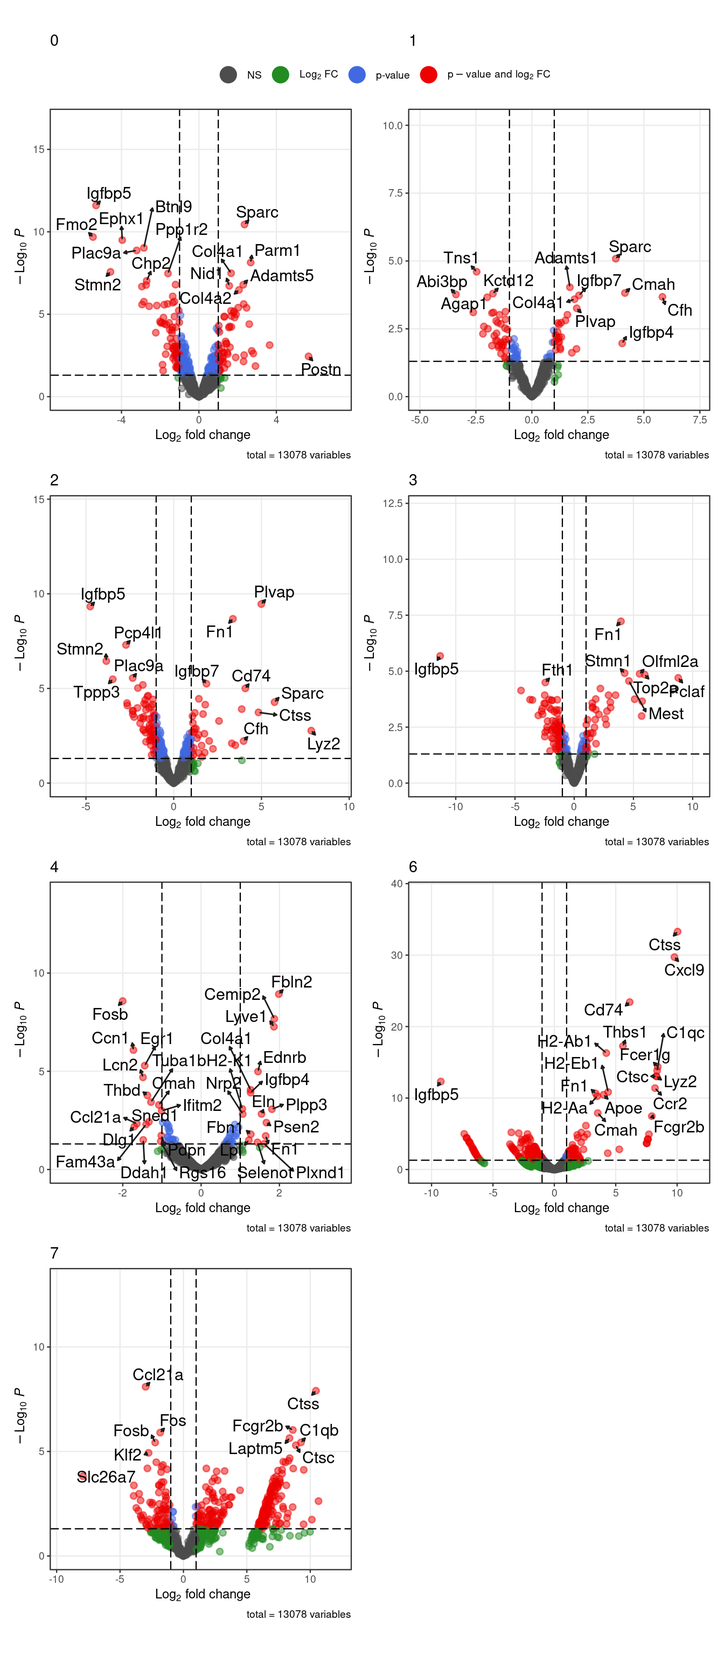
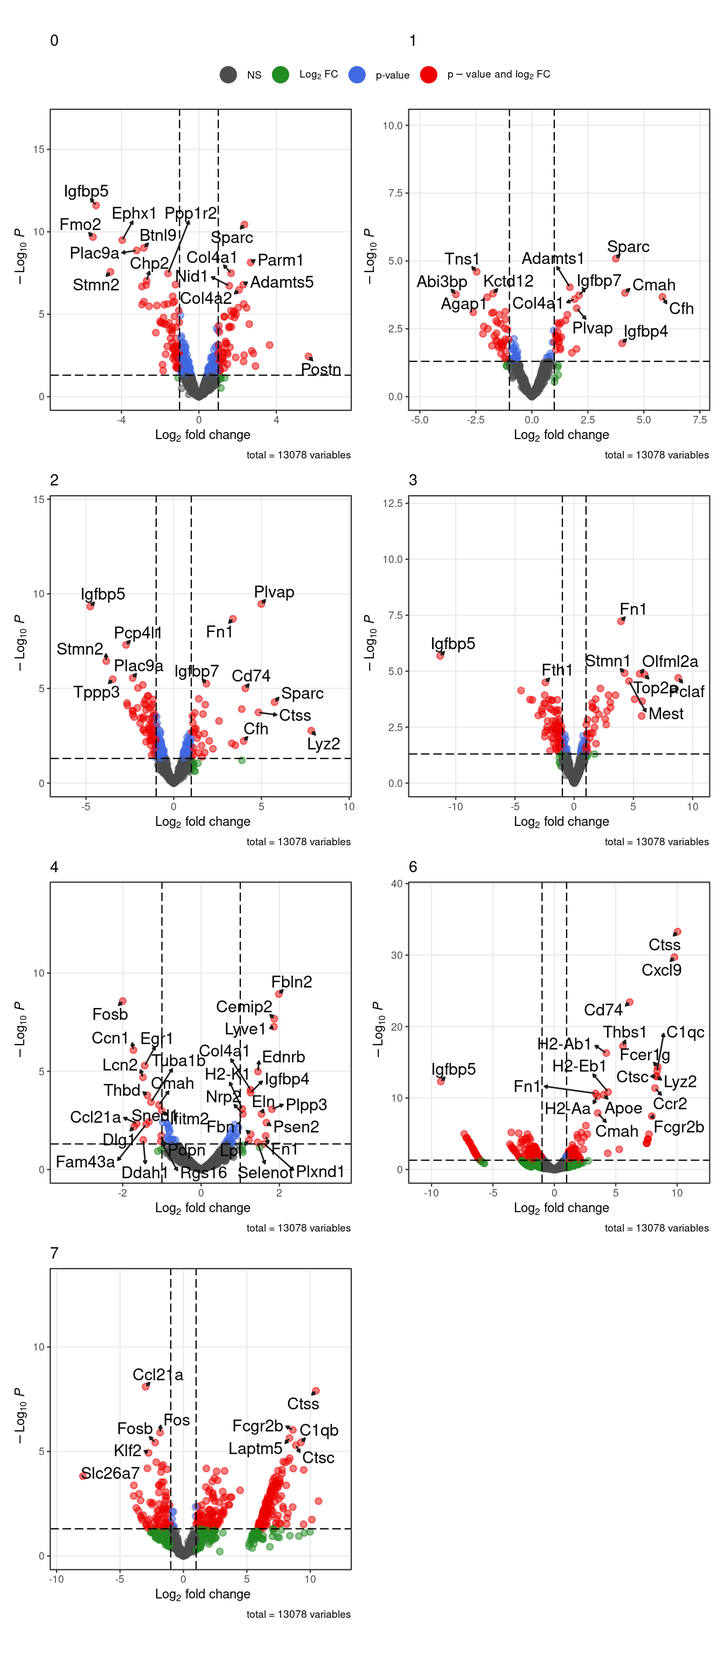
tumor specific yumm-yummer comparison

diff --git a/docs/code/SNF_draft/DE/de_tumor_vs_LN_CD45.html b/docs/code/SNF_draft/DE/de_tumor_vs_LN_CD45.html
@@ -138,7 +138,7 @@ pre > code.sourceCode > span > a:first-child::before { text-decoration: underlin
   </li>  
         <li>
     <a class="dropdown-item" href="../../../code/SNF_draft/DE/de_tumor_CD45.html" rel="" target="">
- <span class="dropdown-text">DE_LECs</span></a>
+ <span class="dropdown-text">DE tumor CD45</span></a>
   </li>  
         <li>
     <a class="dropdown-item" href="../../../code/SNF_draft/DE/de_LN_CD45_almut.html" rel="" target="">
@@ -319,114 +319,138 @@ pre > code.sourceCode > span > a:first-child::before { text-decoration: underlin
 <section id="pseudobulk-de-analysis" class="level3">
 <h3 class="anchored" data-anchor-id="pseudobulk-de-analysis">Pseudobulk De analysis</h3>
 <div class="cell">
-<div class="sourceCode cell-code" id="cb8"><pre class="sourceCode r code-with-copy"><code class="sourceCode r"><span id="cb8-1"><a href="#cb8-1" aria-hidden="true" tabindex="-1"></a><span class="co"># creating pseudobulks</span></span>
-<span id="cb8-2"><a href="#cb8-2" aria-hidden="true" tabindex="-1"></a>summed <span class="ot">&lt;-</span> <span class="fu">aggregateAcrossCells</span>(sce,</span>
-<span id="cb8-3"><a href="#cb8-3" aria-hidden="true" tabindex="-1"></a>                               <span class="at">id=</span><span class="fu">colData</span>(sce)[,<span class="fu">c</span>(<span class="st">"com_celltypes"</span>, <span class="st">"sample_pooled"</span>)])</span>
-<span id="cb8-4"><a href="#cb8-4" aria-hidden="true" tabindex="-1"></a><span class="co"># filter min cells</span></span>
-<span id="cb8-5"><a href="#cb8-5" aria-hidden="true" tabindex="-1"></a>summed.filt <span class="ot">&lt;-</span> summed[,summed<span class="sc">$</span>ncells <span class="sc">&gt;=</span> <span class="dv">10</span>]</span>
-<span id="cb8-6"><a href="#cb8-6" aria-hidden="true" tabindex="-1"></a><span class="fu">print</span>(<span class="fu">table</span>(summed.filt<span class="sc">$</span>tissue, summed.filt<span class="sc">$</span>com_celltypes))</span></code><button title="Copy to Clipboard" class="code-copy-button"><i class="bi"></i></button></pre></div>
+<div class="sourceCode cell-code" id="cb8"><pre class="sourceCode r code-with-copy"><code class="sourceCode r"><span id="cb8-1"><a href="#cb8-1" aria-hidden="true" tabindex="-1"></a>pb_de <span class="ot">&lt;-</span> <span class="cf">function</span>(cond){</span>
+<span id="cb8-2"><a href="#cb8-2" aria-hidden="true" tabindex="-1"></a>  sub <span class="ot">&lt;-</span> sce[,sce<span class="sc">$</span>cond <span class="sc">%in%</span> cond]</span>
+<span id="cb8-3"><a href="#cb8-3" aria-hidden="true" tabindex="-1"></a>  <span class="co"># creating pseudobulks</span></span>
+<span id="cb8-4"><a href="#cb8-4" aria-hidden="true" tabindex="-1"></a>  summed <span class="ot">&lt;-</span> <span class="fu">aggregateAcrossCells</span>(sub,</span>
+<span id="cb8-5"><a href="#cb8-5" aria-hidden="true" tabindex="-1"></a>                               <span class="at">id=</span><span class="fu">colData</span>(sub)[,<span class="fu">c</span>(<span class="st">"com_celltypes"</span>, </span>
+<span id="cb8-6"><a href="#cb8-6" aria-hidden="true" tabindex="-1"></a>                                                  <span class="st">"sample_pooled"</span>)])</span>
+<span id="cb8-7"><a href="#cb8-7" aria-hidden="true" tabindex="-1"></a>  <span class="co"># filter min cells</span></span>
+<span id="cb8-8"><a href="#cb8-8" aria-hidden="true" tabindex="-1"></a>  summed.filt <span class="ot">&lt;-</span> summed[,summed<span class="sc">$</span>ncells <span class="sc">&gt;=</span> <span class="dv">10</span>]</span>
+<span id="cb8-9"><a href="#cb8-9" aria-hidden="true" tabindex="-1"></a>  <span class="fu">print</span>(<span class="fu">table</span>(summed.filt<span class="sc">$</span>tissue, summed.filt<span class="sc">$</span>com_celltypes))</span>
+<span id="cb8-10"><a href="#cb8-10" aria-hidden="true" tabindex="-1"></a>  </span>
+<span id="cb8-11"><a href="#cb8-11" aria-hidden="true" tabindex="-1"></a>  <span class="co"># Model design</span></span>
+<span id="cb8-12"><a href="#cb8-12" aria-hidden="true" tabindex="-1"></a>  <span class="do">## Do the LN and tumor sample correspond to the same mouse?</span></span>
+<span id="cb8-13"><a href="#cb8-13" aria-hidden="true" tabindex="-1"></a>  design <span class="ot">&lt;-</span> <span class="fu">model.matrix</span>(<span class="sc">~</span> tissue, <span class="fu">as.data.frame</span>(<span class="fu">colData</span>(summed.filt)))</span>
+<span id="cb8-14"><a href="#cb8-14" aria-hidden="true" tabindex="-1"></a>  </span>
+<span id="cb8-15"><a href="#cb8-15" aria-hidden="true" tabindex="-1"></a>  <span class="co"># To specify the contrast/coef. </span></span>
+<span id="cb8-16"><a href="#cb8-16" aria-hidden="true" tabindex="-1"></a>  <span class="fu">colnames</span>(design)</span>
+<span id="cb8-17"><a href="#cb8-17" aria-hidden="true" tabindex="-1"></a>  </span>
+<span id="cb8-18"><a href="#cb8-18" aria-hidden="true" tabindex="-1"></a>  <span class="co"># Differential expression</span></span>
+<span id="cb8-19"><a href="#cb8-19" aria-hidden="true" tabindex="-1"></a>  tum_LN <span class="ot">&lt;-</span> <span class="fu">pseudoBulkDGE</span>(summed.filt, </span>
+<span id="cb8-20"><a href="#cb8-20" aria-hidden="true" tabindex="-1"></a>      <span class="at">label=</span>summed.filt<span class="sc">$</span>com_celltypes,</span>
+<span id="cb8-21"><a href="#cb8-21" aria-hidden="true" tabindex="-1"></a>      <span class="at">design=</span><span class="sc">~</span>tissue,</span>
+<span id="cb8-22"><a href="#cb8-22" aria-hidden="true" tabindex="-1"></a>      <span class="at">coef=</span><span class="st">"tissuetumor_CD45"</span>,</span>
+<span id="cb8-23"><a href="#cb8-23" aria-hidden="true" tabindex="-1"></a>      <span class="at">condition=</span>summed.filt<span class="sc">$</span>tissue)</span>
+<span id="cb8-24"><a href="#cb8-24" aria-hidden="true" tabindex="-1"></a>}</span>
+<span id="cb8-25"><a href="#cb8-25" aria-hidden="true" tabindex="-1"></a></span>
+<span id="cb8-26"><a href="#cb8-26" aria-hidden="true" tabindex="-1"></a>yumm <span class="ot">&lt;-</span> <span class="fu">pb_de</span>(<span class="st">"YUMM"</span>)</span></code><button title="Copy to Clipboard" class="code-copy-button"><i class="bi"></i></button></pre></div>
 <div class="cell-output cell-output-stdout">
 <pre><code>            
              monocytes/macrophages other T cells DCs CD8 T cells
-  LN_CD45                        0             7   7           7
-  tumor_CD45                     8             8   8           8
+  LN_CD45                        0             4   4           4
+  tumor_CD45                     4             4   4           4
             
              endothelial cells/fibroblasts CD4 T cells mast cells other B cells
-  LN_CD45                                0           7          0     4       7
-  tumor_CD45                             8           8          8     4       7
+  LN_CD45                                0           4          0     2       4
+  tumor_CD45                             4           4          4     4       3
             
              NK cells LECs
-  LN_CD45           7    7
+  LN_CD45           4    4
   tumor_CD45        0    0</code></pre>
 </div>
-<div class="sourceCode cell-code" id="cb10"><pre class="sourceCode r code-with-copy"><code class="sourceCode r"><span id="cb10-1"><a href="#cb10-1" aria-hidden="true" tabindex="-1"></a><span class="co"># Model design</span></span>
-<span id="cb10-2"><a href="#cb10-2" aria-hidden="true" tabindex="-1"></a><span class="do">## Do the LN and tumor sample correspond to the same mouse?</span></span>
-<span id="cb10-3"><a href="#cb10-3" aria-hidden="true" tabindex="-1"></a>design <span class="ot">&lt;-</span> <span class="fu">model.matrix</span>(<span class="sc">~</span> tissue, <span class="fu">as.data.frame</span>(<span class="fu">colData</span>(summed.filt)))</span>
-<span id="cb10-4"><a href="#cb10-4" aria-hidden="true" tabindex="-1"></a></span>
-<span id="cb10-5"><a href="#cb10-5" aria-hidden="true" tabindex="-1"></a><span class="co"># To specify the contrast/coef. </span></span>
-<span id="cb10-6"><a href="#cb10-6" aria-hidden="true" tabindex="-1"></a><span class="fu">colnames</span>(design)</span></code><button title="Copy to Clipboard" class="code-copy-button"><i class="bi"></i></button></pre></div>
+<div class="sourceCode cell-code" id="cb10"><pre class="sourceCode r code-with-copy"><code class="sourceCode r"><span id="cb10-1"><a href="#cb10-1" aria-hidden="true" tabindex="-1"></a>yummer <span class="ot">&lt;-</span> <span class="fu">pb_de</span>(<span class="st">"YUMMER"</span>)</span></code><button title="Copy to Clipboard" class="code-copy-button"><i class="bi"></i></button></pre></div>
 <div class="cell-output cell-output-stdout">
-<pre><code>[1] "(Intercept)"      "tissuetumor_CD45"</code></pre>
+<pre><code>            
+             monocytes/macrophages other T cells DCs CD8 T cells
+  LN_CD45                        0             3   3           3
+  tumor_CD45                     4             4   4           4
+            
+             endothelial cells/fibroblasts CD4 T cells mast cells other B cells
+  LN_CD45                                0           3          0     2       3
+  tumor_CD45                             4           4          4     0       4
+            
+             NK cells LECs
+  LN_CD45           3    3
+  tumor_CD45        0    0</code></pre>
 </div>
-<div class="sourceCode cell-code" id="cb12"><pre class="sourceCode r code-with-copy"><code class="sourceCode r"><span id="cb12-1"><a href="#cb12-1" aria-hidden="true" tabindex="-1"></a><span class="co"># Differential expression</span></span>
-<span id="cb12-2"><a href="#cb12-2" aria-hidden="true" tabindex="-1"></a>tum_LN <span class="ot">&lt;-</span> <span class="fu">pseudoBulkDGE</span>(summed.filt, </span>
-<span id="cb12-3"><a href="#cb12-3" aria-hidden="true" tabindex="-1"></a>    <span class="at">label=</span>summed.filt<span class="sc">$</span>com_celltypes,</span>
-<span id="cb12-4"><a href="#cb12-4" aria-hidden="true" tabindex="-1"></a>    <span class="at">design=</span><span class="sc">~</span>tissue,</span>
-<span id="cb12-5"><a href="#cb12-5" aria-hidden="true" tabindex="-1"></a>    <span class="at">coef=</span><span class="st">"tissuetumor_CD45"</span>,</span>
-<span id="cb12-6"><a href="#cb12-6" aria-hidden="true" tabindex="-1"></a>    <span class="at">condition=</span>summed.filt<span class="sc">$</span>tissue </span>
-<span id="cb12-7"><a href="#cb12-7" aria-hidden="true" tabindex="-1"></a>)</span>
-<span id="cb12-8"><a href="#cb12-8" aria-hidden="true" tabindex="-1"></a></span>
-<span id="cb12-9"><a href="#cb12-9" aria-hidden="true" tabindex="-1"></a></span>
-<span id="cb12-10"><a href="#cb12-10" aria-hidden="true" tabindex="-1"></a><span class="co"># Number of DE genes per cluster in yummer_yumm</span></span>
-<span id="cb12-11"><a href="#cb12-11" aria-hidden="true" tabindex="-1"></a>is.de <span class="ot">&lt;-</span> <span class="fu">decideTestsPerLabel</span>(tum_LN, <span class="at">threshold=</span><span class="fl">0.05</span>)</span>
-<span id="cb12-12"><a href="#cb12-12" aria-hidden="true" tabindex="-1"></a><span class="fu">summarizeTestsPerLabel</span>(is.de)</span></code><button title="Copy to Clipboard" class="code-copy-button"><i class="bi"></i></button></pre></div>
+<div class="sourceCode cell-code" id="cb12"><pre class="sourceCode r code-with-copy"><code class="sourceCode r"><span id="cb12-1"><a href="#cb12-1" aria-hidden="true" tabindex="-1"></a><span class="co"># Number of DE genes per cluster in yummer_yumm</span></span>
+<span id="cb12-2"><a href="#cb12-2" aria-hidden="true" tabindex="-1"></a>is.de <span class="ot">&lt;-</span> <span class="fu">decideTestsPerLabel</span>(yumm, <span class="at">threshold=</span><span class="fl">0.05</span>)</span>
+<span id="cb12-3"><a href="#cb12-3" aria-hidden="true" tabindex="-1"></a><span class="fu">summarizeTestsPerLabel</span>(is.de)</span></code><button title="Copy to Clipboard" class="code-copy-button"><i class="bi"></i></button></pre></div>
 <div class="cell-output cell-output-stdout">
 <pre><code>                -1    0    1    NA
-B cells        599 1203  583 11872
-CD4 T cells    949 2660  989  9659
-CD8 T cells   1175 3990 1240  7852
-DCs           2274 3414 2207  6362
-other          444  293  642 12878
-other T cells 1868 3324 1977  7088</code></pre>
+B cells        330 2157  516 11254
+CD4 T cells    499 2076  555 11127
+CD8 T cells    506 3703  589  9459
+DCs           1613 4074 1662  6908
+other          448 1484  816 11509
+other T cells  968 2137 1063 10089</code></pre>
 </div>
-<div class="sourceCode cell-code" id="cb14"><pre class="sourceCode r code-with-copy"><code class="sourceCode r"><span id="cb14-1"><a href="#cb14-1" aria-hidden="true" tabindex="-1"></a><span class="co">#write as output</span></span>
-<span id="cb14-2"><a href="#cb14-2" aria-hidden="true" tabindex="-1"></a>write_de_res <span class="ot">&lt;-</span> <span class="cf">function</span>(de_obj, res_nam){</span>
-<span id="cb14-3"><a href="#cb14-3" aria-hidden="true" tabindex="-1"></a>  res_list <span class="ot">&lt;-</span> <span class="fu">lapply</span>(<span class="fu">names</span>(de_obj), <span class="cf">function</span>(clust, <span class="at">nam =</span> res_nam){</span>
-<span id="cb14-4"><a href="#cb14-4" aria-hidden="true" tabindex="-1"></a>    cur.res <span class="ot">&lt;-</span> de_obj[[clust]]</span>
-<span id="cb14-5"><a href="#cb14-5" aria-hidden="true" tabindex="-1"></a>    res <span class="ot">&lt;-</span> cur.res[<span class="fu">order</span>(cur.res<span class="sc">$</span>PValue),] <span class="sc">|&gt;</span> </span>
-<span id="cb14-6"><a href="#cb14-6" aria-hidden="true" tabindex="-1"></a>      <span class="fu">as.data.frame</span>() <span class="sc">|&gt;</span> </span>
-<span id="cb14-7"><a href="#cb14-7" aria-hidden="true" tabindex="-1"></a>      <span class="fu">filter</span>(<span class="sc">!</span><span class="fu">is.na</span>(PValue))</span>
-<span id="cb14-8"><a href="#cb14-8" aria-hidden="true" tabindex="-1"></a>    <span class="do">## --- adapt path DE/ to local output path -----##</span></span>
-<span id="cb14-9"><a href="#cb14-9" aria-hidden="true" tabindex="-1"></a>    <span class="fu">write.csv</span>(res, <span class="fu">paste0</span>(<span class="st">"../../../out/DE/"</span>, nam, <span class="st">"_"</span>, clust, <span class="st">".csv"</span>))</span>
-<span id="cb14-10"><a href="#cb14-10" aria-hidden="true" tabindex="-1"></a>    res</span>
-<span id="cb14-11"><a href="#cb14-11" aria-hidden="true" tabindex="-1"></a>  })</span>
-<span id="cb14-12"><a href="#cb14-12" aria-hidden="true" tabindex="-1"></a>}</span>
-<span id="cb14-13"><a href="#cb14-13" aria-hidden="true" tabindex="-1"></a></span>
-<span id="cb14-14"><a href="#cb14-14" aria-hidden="true" tabindex="-1"></a>de_tum_LN <span class="ot">&lt;-</span> <span class="fu">write_de_res</span>(tum_LN, <span class="at">res_nam =</span> <span class="st">"tum_vs_LN"</span>)</span></code><button title="Copy to Clipboard" class="code-copy-button"><i class="bi"></i></button></pre></div>
+<div class="sourceCode cell-code" id="cb14"><pre class="sourceCode r code-with-copy"><code class="sourceCode r"><span id="cb14-1"><a href="#cb14-1" aria-hidden="true" tabindex="-1"></a>is.de <span class="ot">&lt;-</span> <span class="fu">decideTestsPerLabel</span>(yummer, <span class="at">threshold=</span><span class="fl">0.05</span>)</span>
+<span id="cb14-2"><a href="#cb14-2" aria-hidden="true" tabindex="-1"></a><span class="fu">summarizeTestsPerLabel</span>(is.de)</span></code><button title="Copy to Clipboard" class="code-copy-button"><i class="bi"></i></button></pre></div>
+<div class="cell-output cell-output-stdout">
+<pre><code>                -1    0    1    NA
+B cells        629 1309  622 11697
+CD4 T cells    764 3267  852  9374
+CD8 T cells   1072 5858 1220  6107
+DCs           2015 4869 2041  5332
+other T cells 1633 4290 1672  6662</code></pre>
+</div>
+<div class="sourceCode cell-code" id="cb16"><pre class="sourceCode r code-with-copy"><code class="sourceCode r"><span id="cb16-1"><a href="#cb16-1" aria-hidden="true" tabindex="-1"></a><span class="co">#write as output</span></span>
+<span id="cb16-2"><a href="#cb16-2" aria-hidden="true" tabindex="-1"></a>write_de_res <span class="ot">&lt;-</span> <span class="cf">function</span>(de_obj, res_nam){</span>
+<span id="cb16-3"><a href="#cb16-3" aria-hidden="true" tabindex="-1"></a>  res_list <span class="ot">&lt;-</span> <span class="fu">lapply</span>(<span class="fu">names</span>(de_obj), <span class="cf">function</span>(clust, <span class="at">nam =</span> res_nam){</span>
+<span id="cb16-4"><a href="#cb16-4" aria-hidden="true" tabindex="-1"></a>    cur.res <span class="ot">&lt;-</span> de_obj[[clust]]</span>
+<span id="cb16-5"><a href="#cb16-5" aria-hidden="true" tabindex="-1"></a>    res <span class="ot">&lt;-</span> cur.res[<span class="fu">order</span>(cur.res<span class="sc">$</span>PValue),] <span class="sc">|&gt;</span> </span>
+<span id="cb16-6"><a href="#cb16-6" aria-hidden="true" tabindex="-1"></a>      <span class="fu">as.data.frame</span>() <span class="sc">|&gt;</span> </span>
+<span id="cb16-7"><a href="#cb16-7" aria-hidden="true" tabindex="-1"></a>      <span class="fu">filter</span>(<span class="sc">!</span><span class="fu">is.na</span>(PValue))</span>
+<span id="cb16-8"><a href="#cb16-8" aria-hidden="true" tabindex="-1"></a>    <span class="do">## --- adapt path DE/ to local output path -----##</span></span>
+<span id="cb16-9"><a href="#cb16-9" aria-hidden="true" tabindex="-1"></a>    <span class="fu">write.csv</span>(res, <span class="fu">paste0</span>(<span class="st">"../../../out/DE/"</span>, nam, <span class="st">"_"</span>, clust, <span class="st">".csv"</span>))</span>
+<span id="cb16-10"><a href="#cb16-10" aria-hidden="true" tabindex="-1"></a>    res</span>
+<span id="cb16-11"><a href="#cb16-11" aria-hidden="true" tabindex="-1"></a>  })</span>
+<span id="cb16-12"><a href="#cb16-12" aria-hidden="true" tabindex="-1"></a>}</span>
+<span id="cb16-13"><a href="#cb16-13" aria-hidden="true" tabindex="-1"></a></span>
+<span id="cb16-14"><a href="#cb16-14" aria-hidden="true" tabindex="-1"></a>yumm_tum_LN <span class="ot">&lt;-</span> <span class="fu">write_de_res</span>(yumm, <span class="at">res_nam =</span> <span class="st">"yumm_tum_vs_LN"</span>)</span>
+<span id="cb16-15"><a href="#cb16-15" aria-hidden="true" tabindex="-1"></a>yummer_tum_LN <span class="ot">&lt;-</span> <span class="fu">write_de_res</span>(yummer, <span class="at">res_nam =</span> <span class="st">"yummer_tum_vs_LN"</span>)</span></code><button title="Copy to Clipboard" class="code-copy-button"><i class="bi"></i></button></pre></div>
 </div>
 </section>
 <section id="volcano-plots" class="level3">
 <h3 class="anchored" data-anchor-id="volcano-plots">Volcano plots</h3>
+<section id="yumm" class="level4">
+<h4 class="anchored" data-anchor-id="yumm">YUMM</h4>
 <div class="cell">
-<div class="sourceCode cell-code" id="cb15"><pre class="sourceCode r code-with-copy"><code class="sourceCode r"><span id="cb15-1"><a href="#cb15-1" aria-hidden="true" tabindex="-1"></a>plot_list <span class="ot">&lt;-</span> <span class="fu">lapply</span>(<span class="fu">names</span>(tum_LN), \(.) {</span>
-<span id="cb15-2"><a href="#cb15-2" aria-hidden="true" tabindex="-1"></a>  df <span class="ot">=</span> tum_LN[[.]]</span>
-<span id="cb15-3"><a href="#cb15-3" aria-hidden="true" tabindex="-1"></a>  <span class="fu">.volcano</span>(<span class="at">df =</span> df, <span class="at">title =</span> ., <span class="at">fdr =</span> <span class="fl">0.05</span>, <span class="at">lfc =</span> <span class="dv">1</span>, )</span>
-<span id="cb15-4"><a href="#cb15-4" aria-hidden="true" tabindex="-1"></a>  }</span>
-<span id="cb15-5"><a href="#cb15-5" aria-hidden="true" tabindex="-1"></a>)</span>
-<span id="cb15-6"><a href="#cb15-6" aria-hidden="true" tabindex="-1"></a></span>
-<span id="cb15-7"><a href="#cb15-7" aria-hidden="true" tabindex="-1"></a><span class="fu">wrap_plots</span>(plot_list, <span class="at">ncol =</span> <span class="dv">2</span>) <span class="sc">+</span> </span>
-<span id="cb15-8"><a href="#cb15-8" aria-hidden="true" tabindex="-1"></a>  <span class="fu">plot_layout</span>(<span class="at">guides =</span> <span class="st">"collect"</span>) <span class="sc">&amp;</span></span>
-<span id="cb15-9"><a href="#cb15-9" aria-hidden="true" tabindex="-1"></a>  <span class="fu">theme</span>(<span class="at">legend.position =</span> <span class="st">"top"</span>)</span></code><button title="Copy to Clipboard" class="code-copy-button"><i class="bi"></i></button></pre></div>
-<div class="cell-output cell-output-stderr">
-<pre><code>Warning: ggrepel: 605 unlabeled data points (too many overlaps). Consider
-increasing max.overlaps</code></pre>
-</div>
-<div class="cell-output cell-output-stderr">
-<pre><code>Warning: ggrepel: 650 unlabeled data points (too many overlaps). Consider
-increasing max.overlaps</code></pre>
-</div>
-<div class="cell-output cell-output-stderr">
-<pre><code>Warning: ggrepel: 681 unlabeled data points (too many overlaps). Consider
-increasing max.overlaps</code></pre>
-</div>
-<div class="cell-output cell-output-stderr">
-<pre><code>Warning: ggrepel: 1990 unlabeled data points (too many overlaps). Consider
-increasing max.overlaps</code></pre>
-</div>
-<div class="cell-output cell-output-stderr">
-<pre><code>Warning: ggrepel: 893 unlabeled data points (too many overlaps). Consider
-increasing max.overlaps</code></pre>
-</div>
-<div class="cell-output cell-output-stderr">
-<pre><code>Warning: ggrepel: 1483 unlabeled data points (too many overlaps). Consider
-increasing max.overlaps</code></pre>
-</div>
+<div class="sourceCode cell-code" id="cb17"><pre class="sourceCode r code-with-copy"><code class="sourceCode r"><span id="cb17-1"><a href="#cb17-1" aria-hidden="true" tabindex="-1"></a>plot_list <span class="ot">&lt;-</span> <span class="fu">lapply</span>(<span class="fu">names</span>(yumm), \(.) {</span>
+<span id="cb17-2"><a href="#cb17-2" aria-hidden="true" tabindex="-1"></a>  df <span class="ot">=</span> yumm[[.]]</span>
+<span id="cb17-3"><a href="#cb17-3" aria-hidden="true" tabindex="-1"></a>  <span class="fu">.volcano</span>(<span class="at">df =</span> df, <span class="at">title =</span> ., <span class="at">fdr =</span> <span class="fl">0.05</span>, <span class="at">lfc =</span> <span class="dv">1</span>, )</span>
+<span id="cb17-4"><a href="#cb17-4" aria-hidden="true" tabindex="-1"></a>  }</span>
+<span id="cb17-5"><a href="#cb17-5" aria-hidden="true" tabindex="-1"></a>)</span>
+<span id="cb17-6"><a href="#cb17-6" aria-hidden="true" tabindex="-1"></a></span>
+<span id="cb17-7"><a href="#cb17-7" aria-hidden="true" tabindex="-1"></a><span class="fu">wrap_plots</span>(plot_list, <span class="at">ncol =</span> <span class="dv">2</span>) <span class="sc">+</span> </span>
+<span id="cb17-8"><a href="#cb17-8" aria-hidden="true" tabindex="-1"></a>  <span class="fu">plot_layout</span>(<span class="at">guides =</span> <span class="st">"collect"</span>) <span class="sc">&amp;</span></span>
+<span id="cb17-9"><a href="#cb17-9" aria-hidden="true" tabindex="-1"></a>  <span class="fu">theme</span>(<span class="at">legend.position =</span> <span class="st">"top"</span>)</span></code><button title="Copy to Clipboard" class="code-copy-button"><i class="bi"></i></button></pre></div>
 <div class="cell-output-display">
-<p><img src="de_tumor_vs_LN_CD45_files/figure-html/volcano-1.png" class="img-fluid" width="672"></p>
+<p><img src="de_tumor_vs_LN_CD45_files/figure-html/volcano yumm-1.png" class="img-fluid" width="672"></p>
+</div>
+</div>
+</section>
+<section id="yummer" class="level4">
+<h4 class="anchored" data-anchor-id="yummer">YUMMER</h4>
+<div class="cell">
+<div class="sourceCode cell-code" id="cb18"><pre class="sourceCode r code-with-copy"><code class="sourceCode r"><span id="cb18-1"><a href="#cb18-1" aria-hidden="true" tabindex="-1"></a>plot_list <span class="ot">&lt;-</span> <span class="fu">lapply</span>(<span class="fu">names</span>(yummer), \(.) {</span>
+<span id="cb18-2"><a href="#cb18-2" aria-hidden="true" tabindex="-1"></a>  df <span class="ot">=</span> yummer[[.]]</span>
+<span id="cb18-3"><a href="#cb18-3" aria-hidden="true" tabindex="-1"></a>  <span class="fu">.volcano</span>(<span class="at">df =</span> df, <span class="at">title =</span> ., <span class="at">fdr =</span> <span class="fl">0.05</span>, <span class="at">lfc =</span> <span class="dv">1</span>, )</span>
+<span id="cb18-4"><a href="#cb18-4" aria-hidden="true" tabindex="-1"></a>  }</span>
+<span id="cb18-5"><a href="#cb18-5" aria-hidden="true" tabindex="-1"></a>)</span>
+<span id="cb18-6"><a href="#cb18-6" aria-hidden="true" tabindex="-1"></a></span>
+<span id="cb18-7"><a href="#cb18-7" aria-hidden="true" tabindex="-1"></a><span class="fu">wrap_plots</span>(plot_list, <span class="at">ncol =</span> <span class="dv">2</span>) <span class="sc">+</span> </span>
+<span id="cb18-8"><a href="#cb18-8" aria-hidden="true" tabindex="-1"></a>  <span class="fu">plot_layout</span>(<span class="at">guides =</span> <span class="st">"collect"</span>) <span class="sc">&amp;</span></span>
+<span id="cb18-9"><a href="#cb18-9" aria-hidden="true" tabindex="-1"></a>  <span class="fu">theme</span>(<span class="at">legend.position =</span> <span class="st">"top"</span>)</span></code><button title="Copy to Clipboard" class="code-copy-button"><i class="bi"></i></button></pre></div>
+<div class="cell-output-display">
+<p><img src="de_tumor_vs_LN_CD45_files/figure-html/volcano yummer-1.png" class="img-fluid" width="672"></p>
 </div>
 </div>
 
 
+</section>
 </section>
 </section>
 

diff --git a/docs/code/SNF_draft/DE/de_tumor_CD45.html b/docs/code/SNF_draft/DE/de_tumor_CD45.html
@@ -7,7 +7,7 @@
 <meta name="viewport" content="width=device-width, initial-scale=1.0, user-scalable=yes">
 
 
-<title>LECs_tumor - DE_LECs</title>
+<title>LECs_tumor - DE tumor CD45</title>
 <style>
 code{white-space: pre-wrap;}
 span.smallcaps{font-variant: small-caps;}
@@ -138,7 +138,7 @@ pre > code.sourceCode > span > a:first-child::before { text-decoration: underlin
   </li>  
         <li>
     <a class="dropdown-item" href="../../../code/SNF_draft/DE/de_tumor_CD45.html" rel="" target="">
- <span class="dropdown-text">DE_LECs</span></a>
+ <span class="dropdown-text">DE tumor CD45</span></a>
   </li>  
         <li>
     <a class="dropdown-item" href="../../../code/SNF_draft/DE/de_LN_CD45_almut.html" rel="" target="">
@@ -213,7 +213,7 @@ pre > code.sourceCode > span > a:first-child::before { text-decoration: underlin
 
 <header id="title-block-header" class="quarto-title-block default">
 <div class="quarto-title">
-<h1 class="title">DE_LECs</h1>
+<h1 class="title">DE tumor CD45</h1>
 </div>
 
 

diff --git a/docs/code/SNF_draft/DE/de_LECs.html b/docs/code/SNF_draft/DE/de_LECs.html
@@ -138,7 +138,7 @@ pre > code.sourceCode > span > a:first-child::before { text-decoration: underlin
   </li>  
         <li>
     <a class="dropdown-item" href="../../../code/SNF_draft/DE/de_tumor_CD45.html" rel="" target="">
- <span class="dropdown-text">DE_LECs</span></a>
+ <span class="dropdown-text">DE tumor CD45</span></a>
   </li>  
         <li>
     <a class="dropdown-item" href="../../../code/SNF_draft/DE/de_LN_CD45_almut.html" rel="" target="">

diff --git a/docs/code/SNF_draft/DE/de_LN_CD45_almut.html b/docs/code/SNF_draft/DE/de_LN_CD45_almut.html
@@ -138,7 +138,7 @@ pre > code.sourceCode > span > a:first-child::before { text-decoration: underlin
   </li>  
         <li>
     <a class="dropdown-item" href="../../../code/SNF_draft/DE/de_tumor_CD45.html" rel="" target="">
- <span class="dropdown-text">DE_LECs</span></a>
+ <span class="dropdown-text">DE tumor CD45</span></a>
   </li>  
         <li>
     <a class="dropdown-item" href="../../../code/SNF_draft/DE/de_LN_CD45_almut.html" rel="" target="">

diff --git a/docs/code/SNF_draft/DE/vis_de_LEC_YUMM_YUMMER.html b/docs/code/SNF_draft/DE/vis_de_LEC_YUMM_YUMMER.html
@@ -138,7 +138,7 @@ pre > code.sourceCode > span > a:first-child::before { text-decoration: underlin
   </li>  
         <li>
     <a class="dropdown-item" href="../../../code/SNF_draft/DE/de_tumor_CD45.html" rel="" target="">
- <span class="dropdown-text">DE_LECs</span></a>
+ <span class="dropdown-text">DE tumor CD45</span></a>
   </li>  
         <li>
     <a class="dropdown-item" href="../../../code/SNF_draft/DE/de_LN_CD45_almut.html" rel="" target="">

diff --git a/docs/code/SNF_draft/EDA/vis_LECs_all.html b/docs/code/SNF_draft/EDA/vis_LECs_all.html
@@ -138,7 +138,7 @@ pre > code.sourceCode > span > a:first-child::before { text-decoration: underlin
   </li>  
         <li>
     <a class="dropdown-item" href="../../../code/SNF_draft/DE/de_tumor_CD45.html" rel="" target="">
- <span class="dropdown-text">DE_LECs</span></a>
+ <span class="dropdown-text">DE tumor CD45</span></a>
   </li>  
         <li>
     <a class="dropdown-item" href="../../../code/SNF_draft/DE/de_LN_CD45_almut.html" rel="" target="">

diff --git a/docs/code/SNF_draft/EDA/vis_LN_CD45.html b/docs/code/SNF_draft/EDA/vis_LN_CD45.html
@@ -138,7 +138,7 @@ pre > code.sourceCode > span > a:first-child::before { text-decoration: underlin
   </li>  
         <li>
     <a class="dropdown-item" href="../../../code/SNF_draft/DE/de_tumor_CD45.html" rel="" target="">
- <span class="dropdown-text">DE_LECs</span></a>
+ <span class="dropdown-text">DE tumor CD45</span></a>
   </li>  
         <li>
     <a class="dropdown-item" href="../../../code/SNF_draft/DE/de_LN_CD45_almut.html" rel="" target="">

diff --git a/docs/code/SNF_draft/EDA/vis_tumor_CD45_all.html b/docs/code/SNF_draft/EDA/vis_tumor_CD45_all.html
@@ -138,7 +138,7 @@ pre > code.sourceCode > span > a:first-child::before { text-decoration: underlin
   </li>  
         <li>
     <a class="dropdown-item" href="../../../code/SNF_draft/DE/de_tumor_CD45.html" rel="" target="">
- <span class="dropdown-text">DE_LECs</span></a>
+ <span class="dropdown-text">DE tumor CD45</span></a>
   </li>  
         <li>
     <a class="dropdown-item" href="../../../code/SNF_draft/DE/de_LN_CD45_almut.html" rel="" target="">

diff --git a/docs/about.html b/docs/about.html
@@ -104,7 +104,7 @@ ul.task-list li input[type="checkbox"] {
   </li>  
         <li>
     <a class="dropdown-item" href="./code/SNF_draft/DE/de_tumor_CD45.html" rel="" target="">
- <span class="dropdown-text">DE_LECs</span></a>
+ <span class="dropdown-text">DE tumor CD45</span></a>
   </li>  
         <li>
     <a class="dropdown-item" href="./code/SNF_draft/DE/de_LN_CD45_almut.html" rel="" target="">

diff --git a/docs/index.html b/docs/index.html
@@ -104,7 +104,7 @@ ul.task-list li input[type="checkbox"] {
   </li>  
         <li>
     <a class="dropdown-item" href="./code/SNF_draft/DE/de_tumor_CD45.html" rel="" target="">
- <span class="dropdown-text">DE_LECs</span></a>
+ <span class="dropdown-text">DE tumor CD45</span></a>
   </li>  
         <li>
     <a class="dropdown-item" href="./code/SNF_draft/DE/de_LN_CD45_almut.html" rel="" target="">
